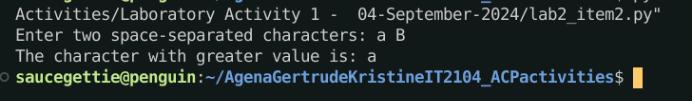
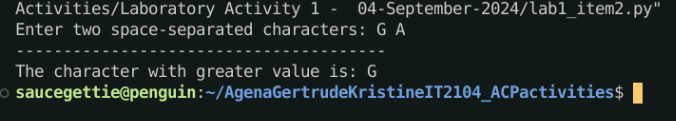
003 | Sept 4, 2024 | LabAct1

Changed region(s): [[0.0, 0.0, 0.9941, 0.4455], [0.0, 0.6535, 0.963, 0.8911], [0.0, 0.4752, 0.5592, 0.6832]]

diff --git a/Laboratory Activities/Laboratory Activity 1 -  04-September-2024/lab1_item2.py b/Laboratory Activities/Laboratory Activity 1 -  04-September-2024/lab1_item2.py
@@ -1,3 +1,5 @@
 charOne, charTwo = input("Enter two space-separated characters: ").split()
 greaterVal = max(charOne, charTwo)
+print("---------------------------------------")
+
 print(f"The character with greater value is: {greaterVal}")
